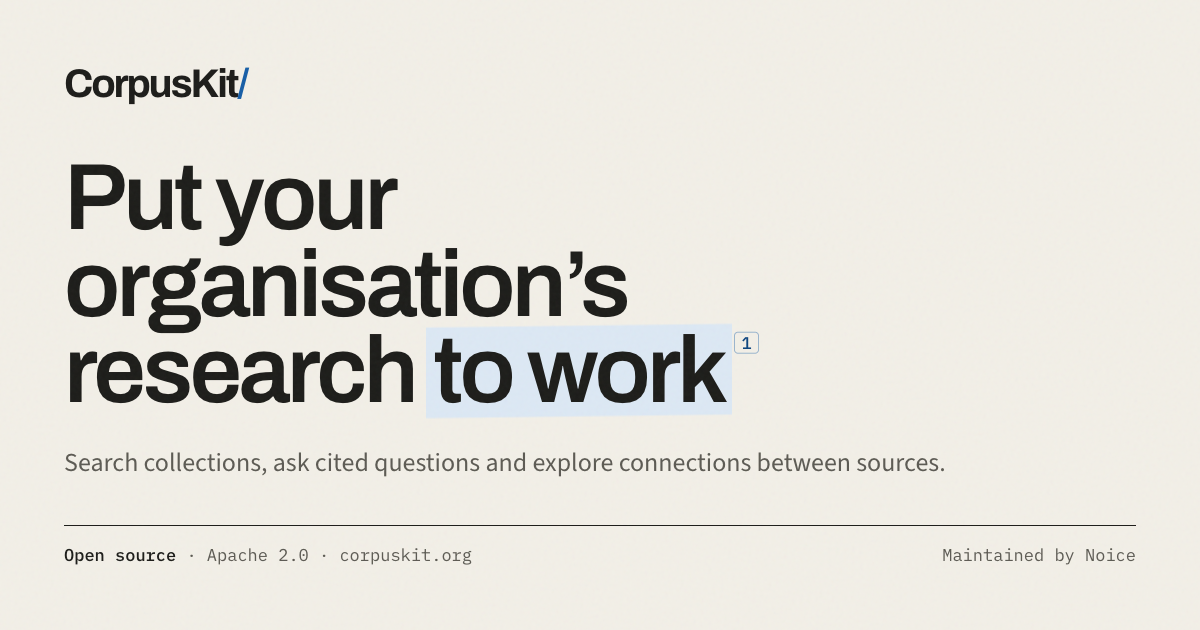
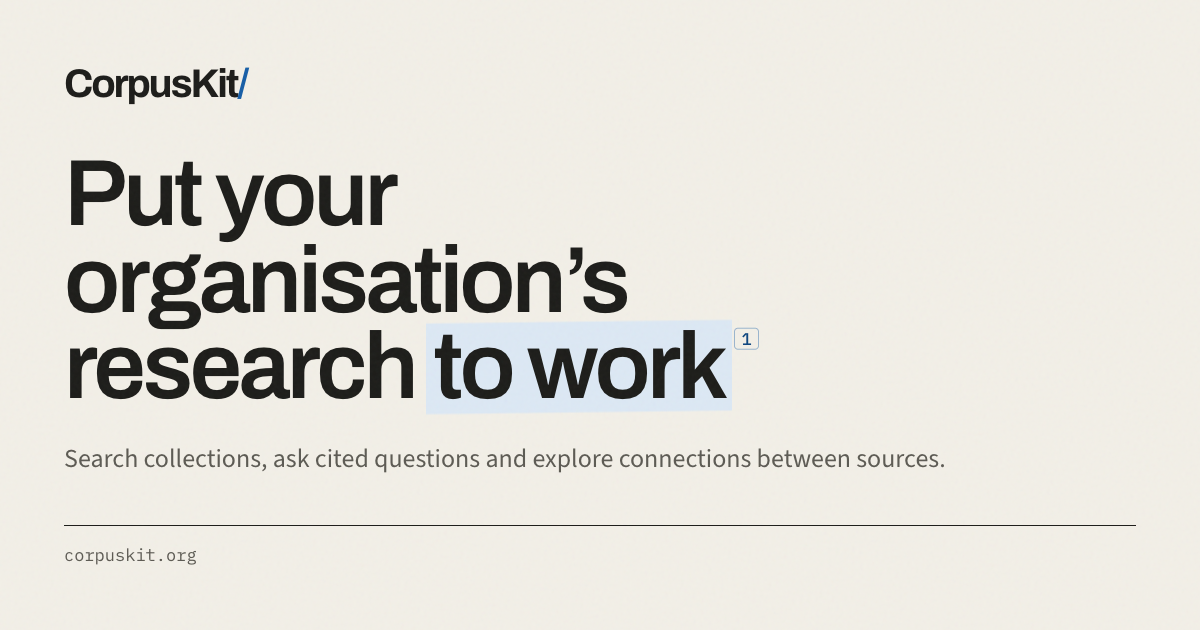
Share cards: wordmark, headline and domain only
Review note for the whole family: the cards must say what CorpusKit does
and nothing else. Every top-right label is gone and the footer strip is
reduced to "corpuskit.org" in mono, bottom-left, under the hairline rule
that anchors the bottom-aligned block. Applies to the OG image, the square
variant and the post cards alike so they stay one system. The launch card
loses its label option and the strip helper collapses to one constant.

Claude-Session: https://claude.ai/code/session_01PKQGBcEBMQFgG4atjRAYEx

diff --git a/apps/web/scripts/og/cards.ts b/apps/web/scripts/og/cards.ts
@@ -84,12 +84,6 @@ const SHELL_CSS = `
     letter-spacing: -.055em;
   }
   .brand-mark { color: var(--blue); }
-  .top-label {
-    color: var(--ink-soft);
-    font-family: var(--mono);
-    font-size: 17px;
-    letter-spacing: .01em;
-  }
   .body {
     display: flex;
     flex: 1;
@@ -141,10 +135,7 @@ const SHELL_CSS = `
   }
   .lede strong { color: var(--ink); font-weight: 600; }
   .strip {
-    display: flex;
-    justify-content: space-between;
-    gap: 2rem;
-    margin-top: 44px;
+    margin-top: 48px;
     padding-top: 18px;
     border-top: 1px solid var(--ink);
     color: var(--ink-soft);
@@ -152,7 +143,6 @@ const SHELL_CSS = `
     font-size: 17px;
     line-height: 1.3;
   }
-  .strip strong { color: var(--ink); font-weight: 500; }
 
   /* Answer card (the .question-card / .citation / .confidence motifs). */
   .two-col {
@@ -294,30 +284,17 @@ html, body { width: ${width}px; height: ${height}px; }
 
 const BRAND = '<div class="brand">CorpusKit<span class="brand-mark">/</span></div>'
 
-function strip(left: string, right = 'corpuskit.org'): string {
-  return `<div class="strip"><span>${left}</span><span>${right}</span></div>`
-}
-
-const LICENCE_STRIP = strip(
-  '<strong>Open source</strong> · Apache 2.0 · corpuskit.org',
-  'Maintained by Noice',
-)
+/** The only chrome besides the wordmark: the domain, bottom-left. */
+const FOOTER = '<div class="strip">corpuskit.org</div>'
 
 /**
  * The launch card: the hero headline with its highlight and citation, the
- * descriptor and the licence strip. The OG images carry no top-right label
- * (the wordmark stands alone); the post variant keeps one.
+ * descriptor and the domain footer.
  */
-function launch(
-  width: number,
-  height: number,
-  file: string,
-  options: { square?: boolean; label?: string } = {},
-): Card {
-  const vars: Record<string, string> = options.square
+function launch(width: number, height: number, file: string, square = false): Card {
+  const vars: Record<string, string> = square
     ? { '--h1': '136px', '--lede': '34px', '--pad': '80px' }
     : {}
-  const label = options.label ? `<span class="top-label">${options.label}</span>` : ''
   return {
     file,
     width,
@@ -327,11 +304,11 @@ function launch(
       width,
       height,
       `<div class="card">
-        <div class="top">${BRAND}${label}</div>
+        <div class="top">${BRAND}</div>
         <div class="body">
           <h1>Put your<br>organisation’s<br>research <span class="hl">to work</span><span class="cite">1</span></h1>
           <p class="lede">Search collections, ask cited questions and explore connections between sources.</p>
-          ${LICENCE_STRIP}
+          ${FOOTER}
         </div>
       </div>`,
       vars,
@@ -358,7 +335,7 @@ function icon(size: number, file: string): Card {
 
 export const OG_CARDS: Card[] = [
   launch(1200, 630, 'og/corpuskit.png'),
-  launch(1200, 1200, 'og/corpuskit-square.png', { square: true }),
+  launch(1200, 1200, 'og/corpuskit-square.png', true),
   icon(180, 'apple-touch-icon.png'),
   icon(96, 'favicon.png'),
 ]
@@ -377,18 +354,18 @@ function post(file: string, body: string, vars: Record<string, string> = {}): Ca
 }
 
 export const POST_CARDS: Card[] = [
-  launch(POST_W, POST_H, 'posts/01-launch.png', { label: 'Open source research portal' }),
+  launch(POST_W, POST_H, 'posts/01-launch.png'),
 
   post(
     'posts/02-cited-passages.png',
     `<div class="card">
-      <div class="top">${BRAND}<span class="top-label">Every answer cited</span></div>
+      <div class="top">${BRAND}</div>
       <div class="body">
         <h1>Answers cite the<br>material they draw on,<br>down to the <span class="hl">passage</span><span class="cite">1</span></h1>
         <div class="passage">Seagrass recovery was slower where winter turbidity remained above the long-term median.
           <cite>1 &nbsp;Estuary condition report · 2023 · page 14</cite>
         </div>
-        ${LICENCE_STRIP}
+        ${FOOTER}
       </div>
     </div>`,
     { '--h1': '80px' },
@@ -397,7 +374,7 @@ export const POST_CARDS: Card[] = [
   post(
     'posts/03-check-the-answer.png',
     `<div class="card">
-      <div class="top">${BRAND}<span class="top-label">Read the source</span></div>
+      <div class="top">${BRAND}</div>
       <div class="body">
         <div class="two-col">
           <h1>Check the<br>answer<br>against the<br><span class="hl">research</span><span class="cite">1</span></h1>
@@ -408,7 +385,7 @@ export const POST_CARDS: Card[] = [
             <div class="confidence"><strong>High confidence</strong><span>Both claims are directly supported by the cited reports</span></div>
           </div>
         </div>
-        ${LICENCE_STRIP}
+        ${FOOTER}
       </div>
     </div>`,
     { '--h1': '82px' },
@@ -417,7 +394,7 @@ export const POST_CARDS: Card[] = [
   post(
     'posts/04-five-views.png',
     `<div class="card">
-      <div class="top">${BRAND}<span class="top-label">One collection, five ways in</span></div>
+      <div class="top">${BRAND}</div>
       <div class="body">
         <h1>Ask. Search. Library.<br>Map. <span class="hl">Manage.</span><span class="cite">1</span></h1>
         <div class="views">
@@ -427,7 +404,7 @@ export const POST_CARDS: Card[] = [
           <div class="view"><div class="t">Map</div><p class="d">Explore connections between sources</p></div>
           <div class="view"><div class="t">Manage</div><p class="d">Configure the portal and its corpus</p></div>
         </div>
-        ${LICENCE_STRIP}
+        ${FOOTER}
       </div>
     </div>`,
     { '--h1': '92px' },
@@ -436,7 +413,7 @@ export const POST_CARDS: Card[] = [
   post(
     'posts/05-open-source.png',
     `<div class="card">
-      <div class="top">${BRAND}<span class="top-label">corpuskit.org</span></div>
+      <div class="top">${BRAND}</div>
       <div class="body">
         <h1>Open source under<br>the <span class="hl">Apache 2.0 licence</span><span class="cite">1</span></h1>
         <div class="views views-3">
@@ -444,12 +421,7 @@ export const POST_CARDS: Card[] = [
           <div class="view"><div class="t">Run CorpusKit</div><p class="d">Connect your research collection and run it on infrastructure you manage</p></div>
           <div class="view"><div class="t">Contribute</div><p class="d">Code, design, documentation, research practice or tests</p></div>
         </div>
-        ${
-      strip(
-        '<strong>Open source</strong> · Apache 2.0 · corpuskit.org',
-        'Powered by Progress Agentic RAG',
-      )
-    }
+        ${FOOTER}
       </div>
     </div>`,
     { '--h1': '86px' },
